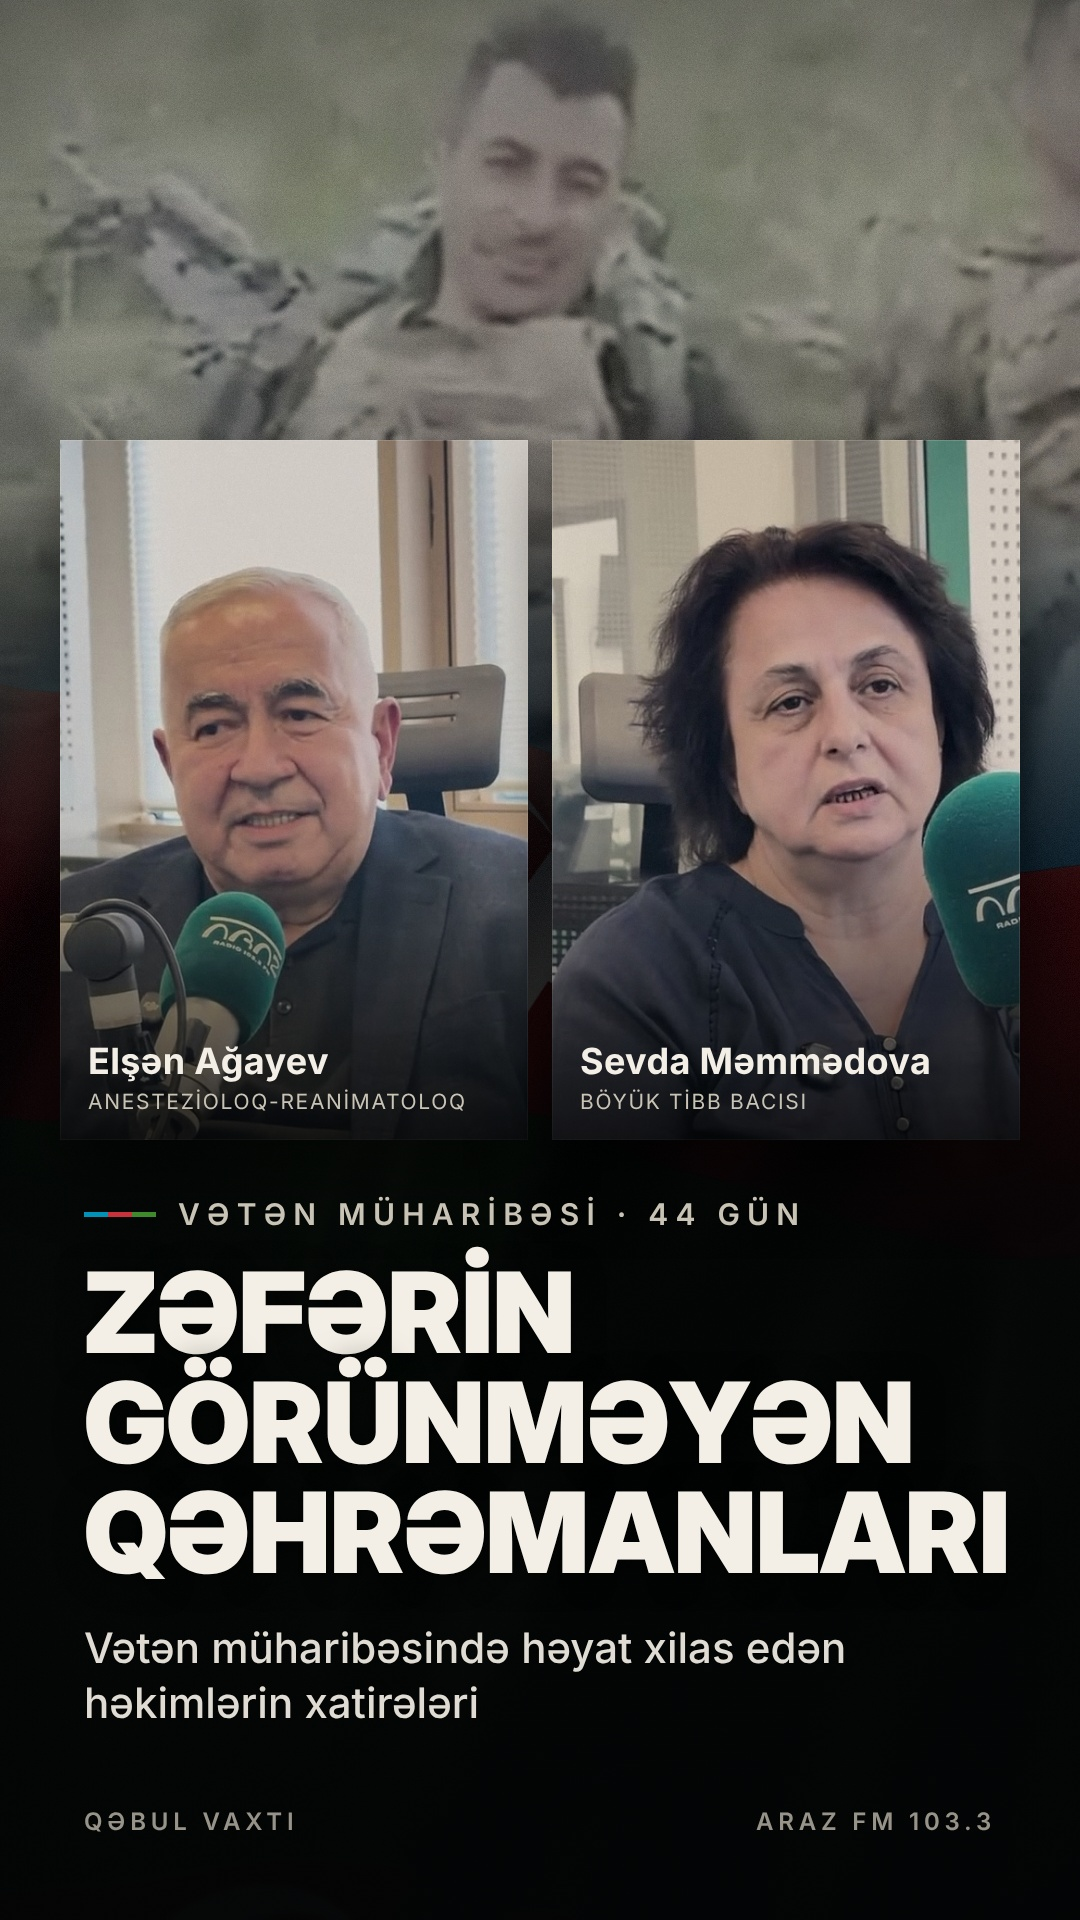
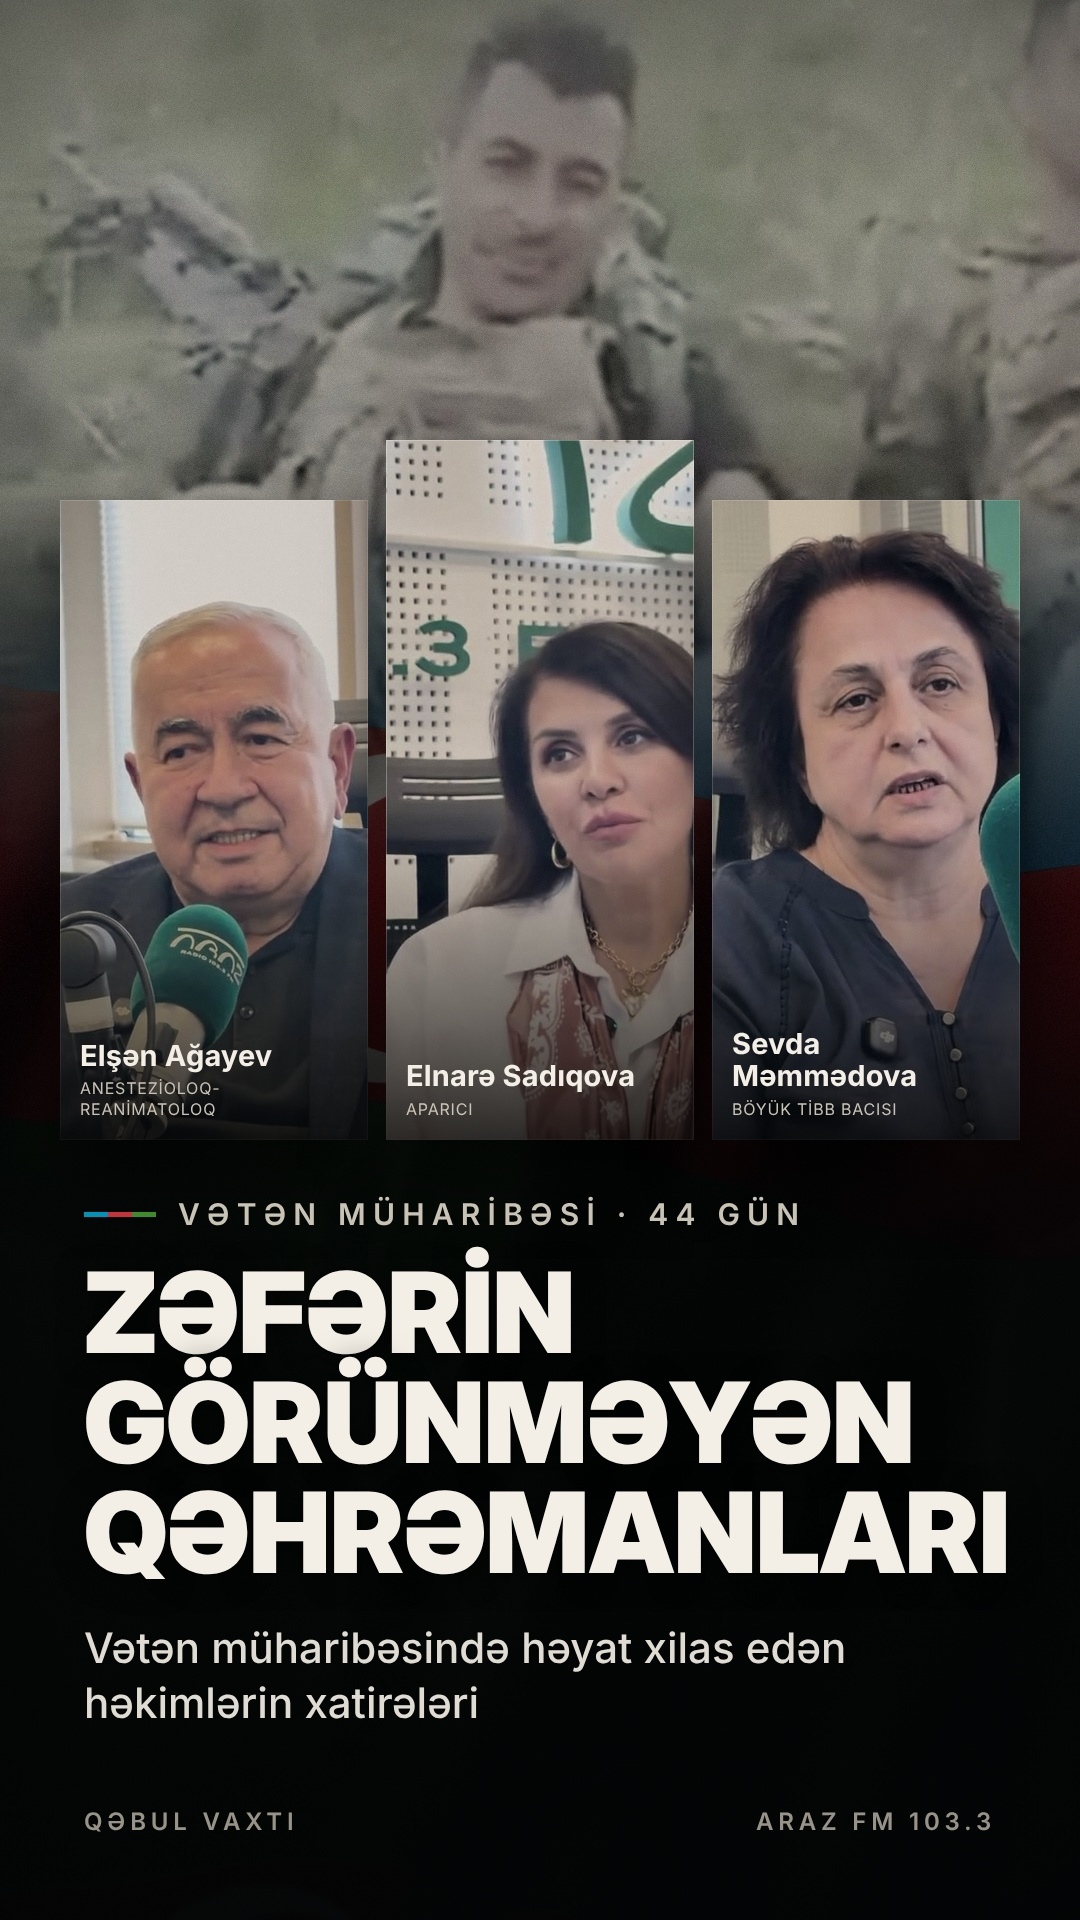
Reels cover: add host Elnarə Sadıqova as the centre portrait
Claude-Session: https://claude.ai/code/session_01ECHFMLr74MBuxrpUBv6mQV

Changed region(s): [[0.0306, 0.2188, 0.9472, 0.5938]]

diff --git a/reel-thumbnail/cover.html b/reel-thumbnail/cover.html
@@ -24,18 +24,20 @@
           linear-gradient(to bottom,rgba(0,0,0,.20) 0%,transparent 10%,transparent 46%,rgba(6,8,9,.80) 62%,rgba(6,8,9,.94) 100%)}
 
   /* two portraits, side by side, like archive prints */
-  .portraits{position:absolute;left:60px;right:60px;top:440px;height:700px;display:flex;gap:24px}
+  .portraits{position:absolute;left:60px;right:60px;top:440px;height:700px;display:flex;gap:18px;align-items:flex-end}
   .p{position:relative;flex:1;overflow:hidden;background:#1a1d1f;
      box-shadow:0 30px 60px rgba(0,0,0,.55);outline:1px solid rgba(243,239,230,.18);outline-offset:-1px}
   .p img{width:100%;height:100%;object-fit:cover;object-position:50% 25%;display:block}
   .p:after{content:"";position:absolute;inset:0;
            background:linear-gradient(to bottom,transparent 55%,rgba(0,0,0,.78) 100%)}
   .p .ph{position:absolute;inset:0;display:none;align-items:center;justify-content:center;text-align:center;
-         font-size:28px;letter-spacing:.14em;color:#7d817f;border:3px dashed #3b4042;margin:24px;line-height:1.5}
+         font-size:20px;letter-spacing:.1em;color:#7d817f;border:3px dashed #3b4042;margin:24px;line-height:1.5}
   .p.empty .ph{display:flex}
-  .p .name{position:absolute;left:28px;right:20px;bottom:26px;z-index:2}
-  .p .name b{display:block;font-size:36px;font-weight:700;letter-spacing:.01em}
-  .p .name i{display:block;font-style:normal;font-size:21px;letter-spacing:.08em;color:var(--muted);margin-top:6px;text-transform:uppercase}
+  .p{height:640px}
+  .p.host{height:700px;outline-color:rgba(243,239,230,.32)}   /* host in the middle, slightly taller */
+  .p .name{position:absolute;left:20px;right:14px;bottom:20px;z-index:2}
+  .p .name b{display:block;font-size:29px;font-weight:700;letter-spacing:.005em;line-height:1.1}
+  .p .name i{display:block;font-style:normal;font-size:16px;letter-spacing:.05em;color:var(--muted);margin-top:7px;text-transform:uppercase;line-height:1.3}
 
   .text{position:absolute;left:84px;right:84px;top:1196px}
   .kicker{display:flex;align-items:center;gap:22px;font-weight:600;font-size:30px;letter-spacing:.24em;color:var(--muted)}
@@ -57,6 +59,8 @@
   <div class="portraits">
     <div class="p"><img src="build/p1.jpg" alt=""><div class="ph">ELŞƏN AĞAYEVİN<br>REAL FOTOSU</div>
       <div class="name"><b>Elşən Ağayev</b><i>Anestezioloq-reanimatoloq</i></div></div>
+    <div class="p host"><img src="build/p3.jpg" alt=""><div class="ph">ELNARƏ SADIQOVANIN<br>REAL FOTOSU</div>
+      <div class="name"><b>Elnarə Sadıqova</b><i>Aparıcı</i></div></div>
     <div class="p"><img src="build/p2.jpg" alt=""><div class="ph">SEVDA MƏMMƏDOVANIN<br>REAL FOTOSU</div>
       <div class="name"><b>Sevda Məmmədova</b><i>Böyük tibb bacısı</i></div></div>
   </div>

diff --git a/reel-thumbnail/make_assets.py b/reel-thumbnail/make_assets.py
@@ -1,7 +1,7 @@
 """Builds the two image layers for the reel cover:
  bg_flag.jpg  - photographic Azerbaijani flag (official construction, from ../zefer-gunu-edit/flag_scenes.py),
                 graded dark and desaturated for a documentary look
- p1.jpg, p2.jpg - the real photos of the two guests, upscaled if small and graded the same way
+ p1..p3.jpg   - the real photos of the people in the reel, upscaled if small and graded the same way
                 (no face retouching, no generated content)
  bg_war.jpg   - optional real frame from the war footage in the reel, darkened and desaturated
 Usage: python make_assets.py OUTDIR [PHOTO1.jpg[@x,y,w,h] [PHOTO2.jpg[@x,y,w,h]]] [bg=FRAME.jpg]
@@ -43,7 +43,7 @@ flag = fs.fullframe_flag_real(t=2.0, dur=6.0, cx=640, cy=300, flag_h_frac=0.62, 
 save(os.path.join(out, 'bg_flag.jpg'), grade(np.clip(flag, 0, 1), sat=0.62, gain=0.80))
 
 # photos: Lanczos upscale to >=1080 px tall + gentle unsharp mask, same grade
-for i, photo in enumerate(photos[:2], 1):
+for i, photo in enumerate(photos[:3], 1):
     im = load(photo)
     s = 1080 / min(im.shape[:2])
     if s > 1:

diff --git a/reel-thumbnail/README.md b/reel-thumbnail/README.md
@@ -1,13 +1,14 @@
 # «Zəfərin görünməyən qəhrəmanları»: Reels üz qabığı (1080×1920)
 
 Reel: «Qəbul Vaxtı» (Araz FM 103.3), instagram.com/reel/DfeaCj5o5lQ.
-Üz qabığında verilişin qonaqları var: anestezioloq-reanimatoloq **Elşən Ağayev** və böyük tibb bacısı **Sevda Məmmədova**.
+Üz qabığında üç nəfər var: anestezioloq-reanimatoloq **Elşən Ağayev**, ortada aparıcı **Elnarə Sadıqova** və böyük tibb bacısı **Sevda Məmmədova**.
 
 Bütün görüntülər reel-in öz kadrlarıdır (`frames/`):
 
 | Fayl | Video vaxtı | Üz qabığında |
 |---|---|---|
 | `elshen_agayev_0m16s.jpg` | 0:16.4 | sol portret |
+| `elnare_sadiqova_0m02s.jpg` | 0:02 | orta portret (bir az hündür) |
 | `sevda_memmedova_1m25s.jpg` | 1:24.6 | sağ portret |
 | `cebhe_0m51s.jpg` | 0:51.8 | yuxarıdakı fon: cəbhədən real kadr |
 
@@ -17,7 +18,8 @@ Mətnlərin hamısı Instagram-ın 4:5 tor kəsiminin içindədir.
 
 Yenidən yaratmaq üçün:
 ```
-python3 make_assets.py build "frames/elshen_agayev_0m16s.jpg@90,190,500,700" \
-  "frames/sevda_memmedova_1m25s.jpg@70,220,500,700" bg=frames/cebhe_0m51s.jpg
+python3 make_assets.py build "frames/elshen_agayev_0m16s.jpg@130,190,330,760" \
+  "frames/sevda_memmedova_1m25s.jpg@170,250,330,760" \
+  "frames/elnare_sadiqova_0m02s.jpg@125,170,330,760" bg=frames/cebhe_0m51s.jpg   # p1 sol, p2 sağ, p3 orta
 node render.js            # -> cover_1080x1920.jpg
 ```
